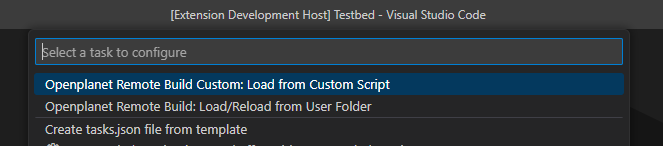
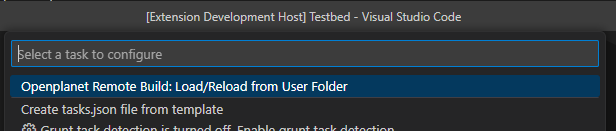
Use shell/process task when calling tm-remote-build

diff --git a/src/extension.ts b/src/extension.ts
@@ -1,9 +1,7 @@
 import * as vscode from 'vscode';
 import { OpBuildTaskProvider } from './opBuildTaskProvider';
-import { OpCustomTaskProvider } from './opCustomTaskProvider';
 
 let opBuildTaskProvider: vscode.Disposable | undefined;
-let opCustomTaskProvider: vscode.Disposable | undefined;
 
 export function activate(_context: vscode.ExtensionContext): void {
     const workspaceRoot = (vscode.workspace.workspaceFolders && (vscode.workspace.workspaceFolders.length > 0))
@@ -13,14 +11,10 @@ export function activate(_context: vscode.ExtensionContext): void {
     }
 
     opBuildTaskProvider = vscode.tasks.registerTaskProvider(OpBuildTaskProvider.OpenplanetTaskType, new OpBuildTaskProvider(workspaceRoot));
-    opCustomTaskProvider = vscode.tasks.registerTaskProvider(OpCustomTaskProvider.OpenplanetTaskType, new OpCustomTaskProvider(workspaceRoot));
 }
 
 export function deactivate(): void {
     if (opBuildTaskProvider) {
         opBuildTaskProvider.dispose();
-    }
-    if (opCustomTaskProvider) {
-        opCustomTaskProvider.dispose();
     }
 }

diff --git a/readme.md b/readme.md
@@ -16,8 +16,12 @@ latest version.
 
 ## Usage (Simple)
 
+* Prerequisites
+    * Workspace is located in ~/OpenplanetX/Plugins/\<MyPlugin\>
+    * Workspace contains info.toml file in the root directory
+
 Open vscode so your workspace is inside a plugin folder in the OpenplanetX/Plugins/ folder. If you also have a
-`info.toml` file in the top level of your plugin folder than you will see the "Openplanet Remote Build: Load/Reload
+info.toml file in the top level of your plugin folder than you will see the "Openplanet Remote Build: Load/Reload
 from User Folder" task in the available list when you go to add a new task.
 
 > NOTE: tm-remote-build is not required to be installed to use this custom build task. All parts of the loading are
@@ -27,8 +31,25 @@ Run this task to send a command to Openplanet and have the plugin in your worksp
 
 ## Usage (Custom)
 
-If you have a custom build script to run you will need to create the "Openplanet Remote Build Custom: Load from Custom
-Script" task. This task will, by default, call a script called `./build.sh`. You should update the `commandLine` field
-in the task definition to match what your script is named.
+* Prerequisites
+    * None
+
+If you have a custom build script to create a "shell"/"process" type task and configure it to call your script. Add the
+following to your task definition in .vscode/tasks.json:
+`"problemMatcher": [ "$Openplanet Remote Build Problem Matcher: Angelscript Compiler" ]`
+
+Your task could look something like this:
+
+```json
+{
+    "label": "Openplanet Remote Build Custom Shell",
+    "type": "shell",
+    "command": "./build.bat",
+    "problemMatcher": [ "$Openplanet Remote Build Problem Matcher: Angelscript Compiler" ]
+}
+```
+
+Refer to the [VS Code documentation](https://code.visualstudio.com/docs/editor/tasks#_custom-tasks) for help creating
+a custom task.
 
 It is expected that at some point in your build script you will call tm-remote-build to trigger the plugin to load.
